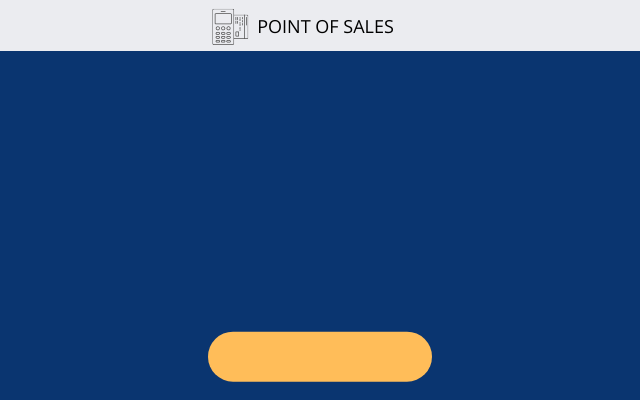
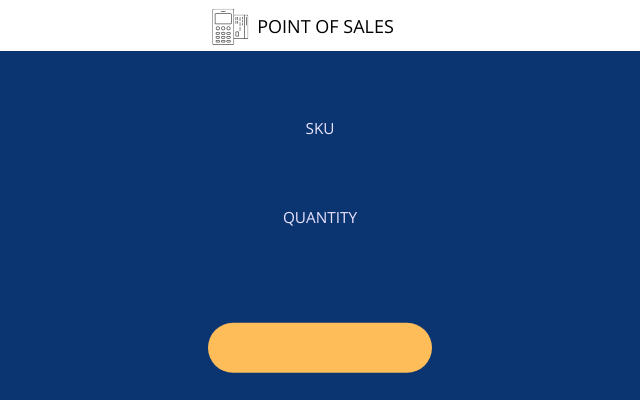
changed

diff --git a/POS.py b/POS.py
@@ -13,107 +13,17 @@ product_img = ImageTk.PhotoImage(file="POS.png")
 my_canvas=Canvas(window,width=600,height=420,bg="#0a3570",highlightthickness=0,borderwidth=0)
 my_canvas.create_image(0,0,image=product_img,anchor=NW)
 my_canvas.pack(fill="both",expand=True)
+
+sku_entry =Entry(window,bd=0, width=9,font=('comic sans', 17, 'normal'),bg="#ffffff")
+sku_entry.place(x=260,y=150)
+
+qnty_entry =Entry(window,bd=0, width=9,font=('comic sans', 17, 'normal'),bg="#ffffff")
+qnty_entry.place(x=260,y=240)
+
 sell_product=Button(window,text="SELL PRODUCT",bd=0,font=("comic sans",14),bg="#ffbd59",width=15,
               fg="#0c0c0c",activeforeground="#0c0c0c",activebackground="#ffbd59")
-sell_product.place(x=235,y=340)
-# scroll = Scrollbar(window)
-# scroll.pack(side=RIGHT, fill=Y)
+sell_product.place(x=235,y=332)
 
-# scroll = Scrollbar(window,orient='horizontal')
-# scroll.pack(side= BOTTOM,fill=X)
-
-# POS = ttk.Treeview(window,yscrollcommand=scroll.set)
-# POS.pack()
-# scroll.config(command=POS.yview)
-# POS['columns'] = ('PRODUCT NAME', 'QUANTITY', 'SKU',"PRICE","QUANTITY","SELECT")
-# # format our column
-# POS.column("#0", width=0,  stretch=NO)
-# POS.column("PRODUCT NAME",anchor=CENTER, width=40)
-# POS.column("QUANTITY",anchor=CENTER,width=40)
-# POS.column("SKU",anchor=CENTER,width=40)
-# POS.column("PRICE",anchor=CENTER,width=40)
-# POS.column("QUANTITY",anchor=CENTER,width=40)
-# POS.column("SELECT",anchor=CENTER,width=40)
-#
-# #Create Headings
-# POS.heading("#0",text="",anchor=CENTER)
-# POS.heading("PRODUCT",text="product",anchor=CENTER)
-# POS.heading("QUANTITY",text="quantity",anchor=CENTER)
-# POS.heading("SKU",text="sku",anchor=CENTER)
-# POS.heading("PRICE",text="price",anchor=CENTER)
-# POS.heading("QUANTITY",text="quantity",anchor=CENTER)
-# POS.heading("SELECT",text="select",anchor=CENTER)
-# #labels
-# product= Label(window,text = "PRODUCT",fg="#ffffff",bg="#0a3570")
-# product.grid(row=0,column=0 )
-#
-# QUANTITY1 = Label(window,text="QUANTITY",fg="#ffffff",bg="#0a3570")
-# QUANTITY1.grid(row=0,column=1)
-#
-# sku= Label(window,text="SKU",fg="#ffffff",bg="#0a3570")
-# sku.grid(row=0,column=2)
-# PRICE= Label(window,text="PRICE",fg="#ffffff",bg="#0a3570")
-# PRICE.grid(row=0,column=3)
-# QUANTITY2= Label(window,text="QUANTITY",fg="#ffffff",bg="#0a3570")
-# QUANTITY2.grid(row=0,column=4)
-# SELECT= Label(window,text="SELECT",fg="#ffffff",bg="#0a3570")
-# SELECT.grid(row=0,column=5)
-#
-# #Entry boxes
-# product_entry= Entry(window)
-# product_entry.grid(row= 1, column=0)
-#
-# QUANTITY1_entry = Entry(window)
-# QUANTITY1_entry.grid(row=1,column=1)
-#
-# sku_entry = Entry(window)
-# sku_entry.grid(row=1,column=2)
-#
-# PRICE_entry = Entry(window)
-# PRICE_entry.grid(row=1,column=3)
-#
-# QUANTITY2_entry = Entry(window)
-# QUANTITY2_entry.grid(row=1,column=4)
-#
-# SELECT_entry = Entry(window)
-# SELECT_entry.grid(row=1,column=5)
-
-# class Table:
-#     # Initialize a constructor
-#     def __init__(self, window):
-#
-#         # An approach for creating the table
-#         for i in range(total_rows):
-#             for j in range(total_columns):
-#                 print(i)
-#                 if i ==0:
-#                     self.entry = Entry(window, width=20, bg='LightSteelBlue',fg='Black',
-#                                        font=('Arial', 16, 'bold'))
-#                 else:
-#                     self.entry = Entry(window, width=20, fg='blue',
-#                                font=('Arial', 16, ''))
-#
-#                 self.entry.grid(row=i, column=j)
-#                 self.entry.insert(END, employee_list[i][j])
-# employee_list = [('ID', 'Name', 'City', 'Age'),
-#         (1, 'Gorge', 'California', 30),
-#        (2, 'Maria', 'New York', 19),
-#        (3, 'Albert', 'Berlin', 22),
-#        (4, 'Harry', 'Chicago', 19),
-#        (5, 'Vanessa', 'Boston', 31),
-#        (6, 'Ali', 'Karachi', 30)]
-#
-# total_rows = len(employee_list)
-# total_columns = len(employee_list[0])
-
-lf = LabelFrame(my_canvas,background="#ffffff")
-
-# Add a label in the labelFrame widget
-label= Label(lf, text= "PRODUCT")
-label.config(font= 'Arial 9',bg="#0a3570",fg="#ffffff")
-label.place(x=50,y=55)
-
-lf.pack()
 
 
 window.mainloop()
